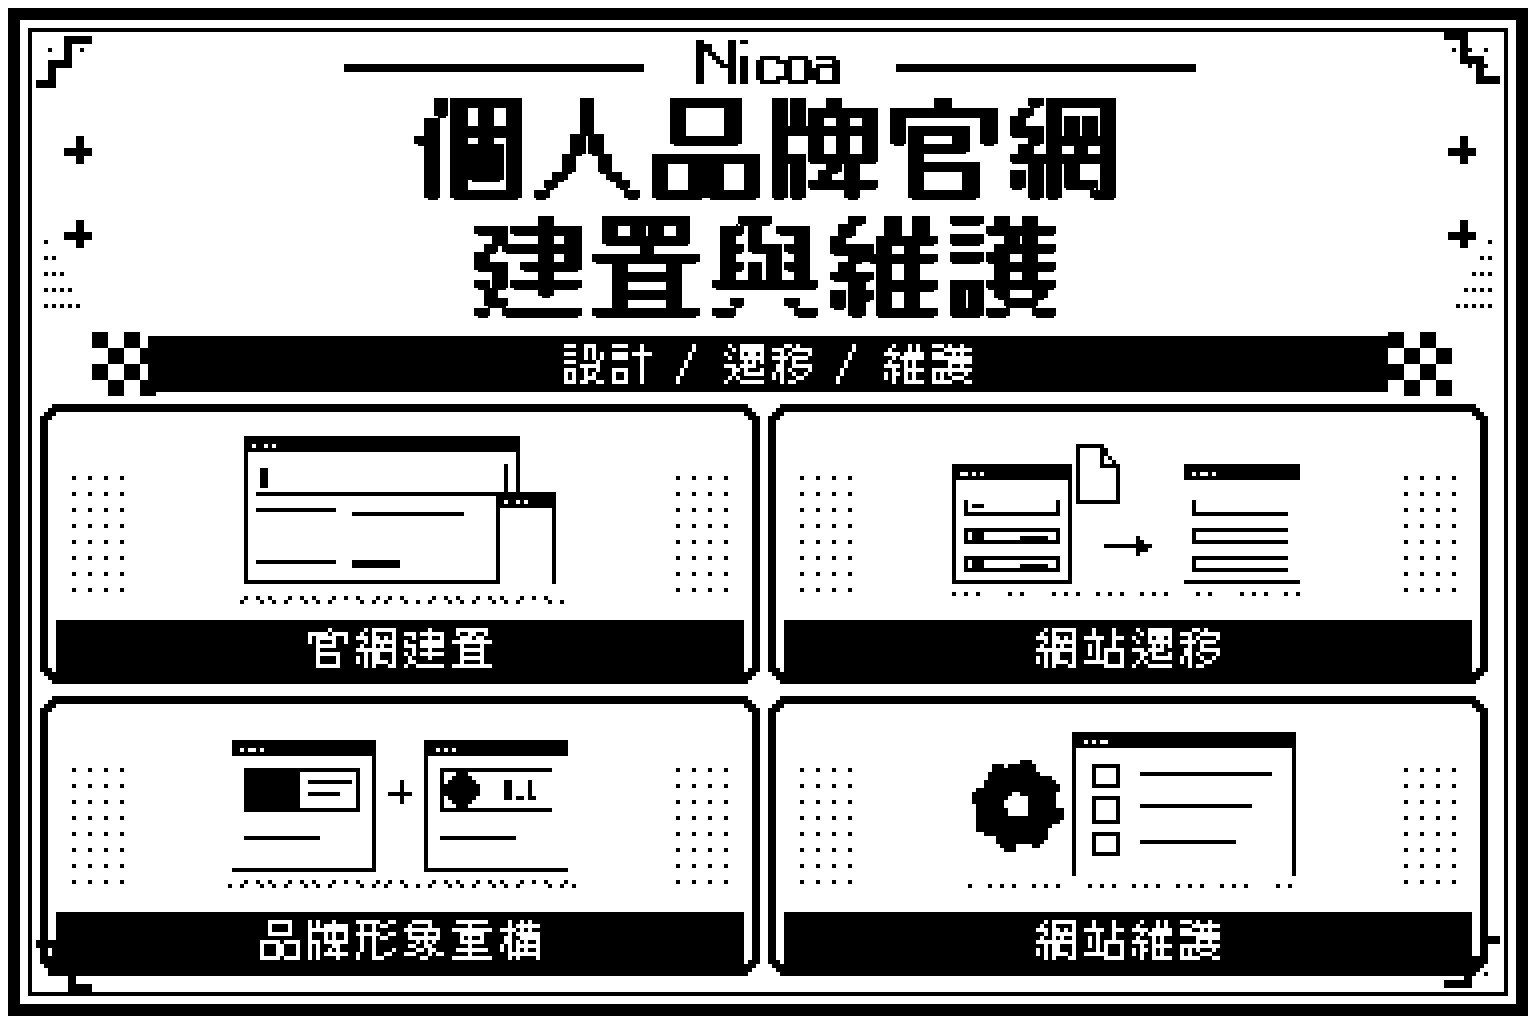
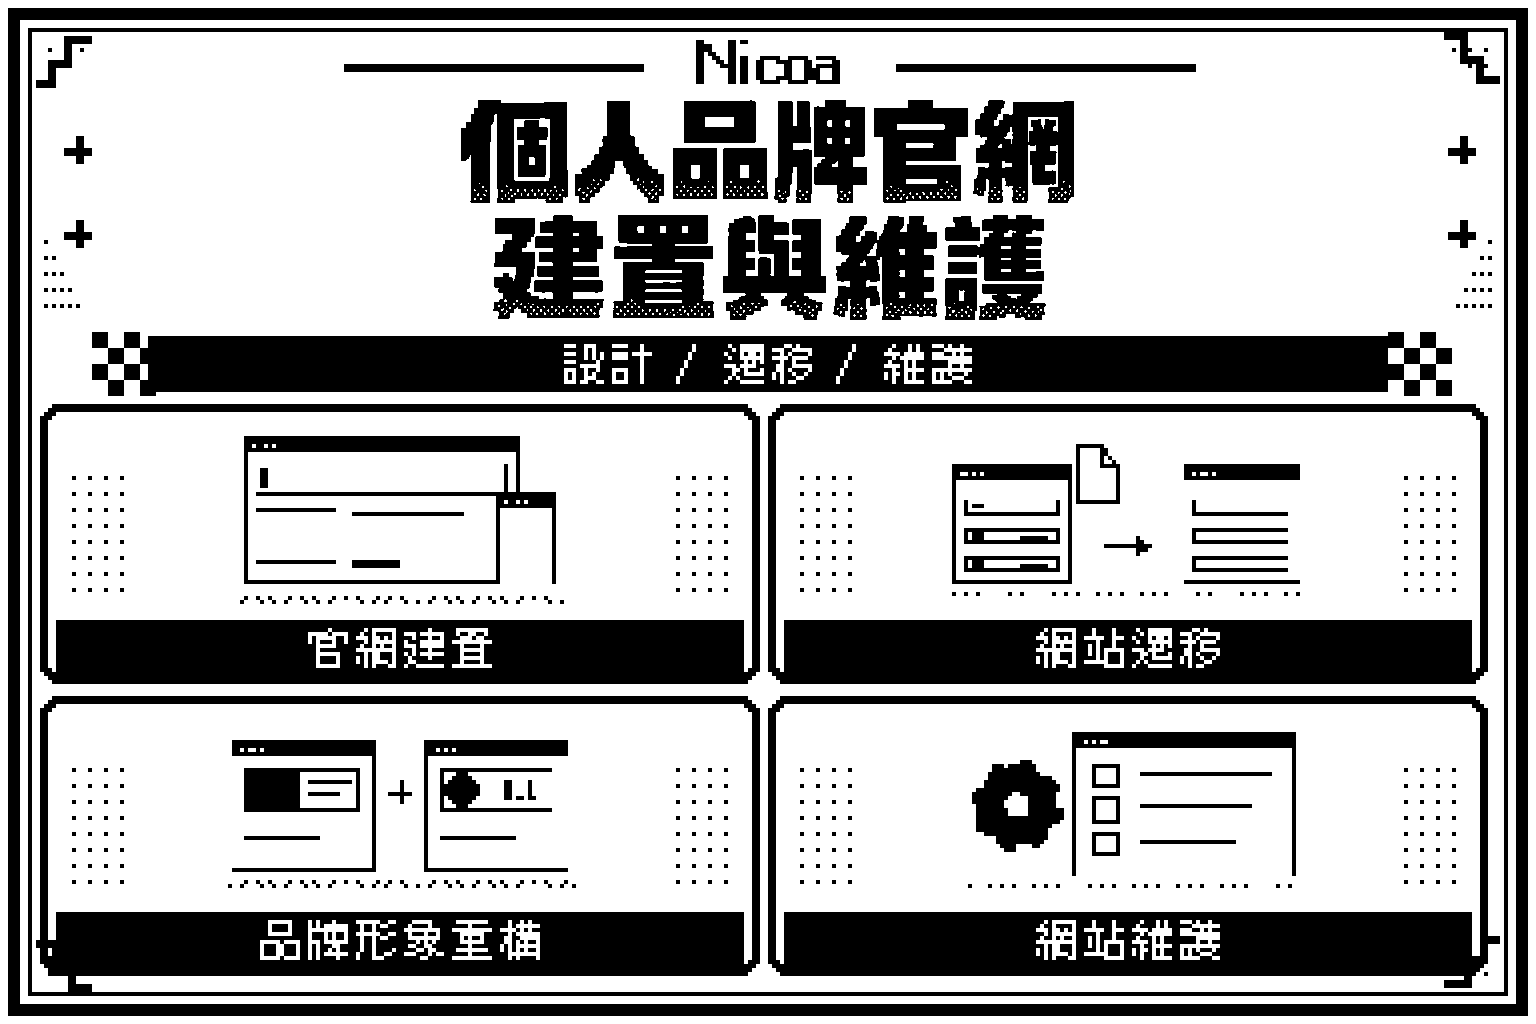
Use custom inked pixel lettering for both website posters

Changed region(s): [[0.25, 0.0938, 0.75, 0.3125]]

diff --git a/index.html b/index.html
@@ -282,7 +282,7 @@ height="0" width="0" style="display:none;visibility:hidden" title="Google Tag Ma
         </article>
         <article class="service-card website-service-plan pixel-reveal" id="website-service-plan" data-service-poster="website" data-window-title="個人品牌官網建置與維護" aria-labelledby="website-service-plan-title">
           <div data-view="original" class="poster-frame">
-            <img class="poster-base" src="./assets/service-website-zh.png?v=20261116-series" alt="個人品牌官網建置與維護四格像素海報，展示官網建置、網站遷移、品牌形象重構和網站維護" width="1536" height="1024" loading="lazy">
+            <img class="poster-base" src="./assets/service-website-zh.png?v=20261116-pixel-lettering" alt="個人品牌官網建置與維護四格像素海報，展示官網建置、網站遷移、品牌形象重構和網站維護" width="1536" height="1024" loading="lazy">
           </div>
           <div class="poster-utility">
             <button type="button" data-open-dialog="website-poster">放大原圖 ↗</button>
@@ -340,7 +340,7 @@ height="0" width="0" style="display:none;visibility:hidden" title="Google Tag Ma
   <dialog class="service-image-dialog" id="translation-poster" aria-labelledby="translation-poster-heading"><div class="dialog-header"><h2 id="translation-poster-heading">中英文翻譯</h2><button type="button" data-close-dialog="" aria-label="關閉服務圖片">×</button></div><picture class="home-responsive-image"><source type="image/webp" srcset="./assets/home-images/service-translation-zh-480.webp 480w, ./assets/home-images/service-translation-zh-768.webp 768w, ./assets/home-images/service-translation-zh-1152.webp 1152w, ./assets/home-images/service-translation-zh-1536.webp 1536w" sizes="min(calc(100vw - 48px), 1080px)"><img src="./assets/service-translation-zh.png" alt="中英文翻譯與繁體中文在地化：軟體介面、技術文件、文章翻譯、用詞與語氣" width="1536" height="1024" loading="lazy"></picture><a class="button button-dark" href="./assets/service-translation-zh.png" download="Nicoa-translation-zh.png">下載服務圖片 ↓</a></dialog>
   <dialog class="service-image-dialog" id="website-poster" aria-labelledby="website-poster-heading">
     <div class="dialog-header"><h2 id="website-poster-heading">個人品牌官網建置與維護</h2><button type="button" data-close-dialog aria-label="關閉服務圖片">×</button></div>
-    <img class="poster-base" src="./assets/service-website-zh.png?v=20261116-series" alt="個人品牌官網建置與維護四格像素海報，展示官網建置、網站遷移、品牌形象重構和網站維護" width="1536" height="1024" loading="lazy">
+    <img class="poster-base" src="./assets/service-website-zh.png?v=20261116-pixel-lettering" alt="個人品牌官網建置與維護四格像素海報，展示官網建置、網站遷移、品牌形象重構和網站維護" width="1536" height="1024" loading="lazy">
   </dialog>
   <dialog class="service-image-dialog" id="office-poster" aria-labelledby="office-poster-heading"><div class="dialog-header"><h2 id="office-poster-heading">文書自動化與資料整理</h2><button type="button" data-close-dialog="" aria-label="關閉服務圖片">×</button></div><picture class="home-responsive-image"><source type="image/webp" srcset="./assets/home-images/service-office-zh-480.webp 480w, ./assets/home-images/service-office-zh-768.webp 768w, ./assets/home-images/service-office-zh-1152.webp 1152w, ./assets/home-images/service-office-zh-1536.webp 1536w" sizes="min(calc(100vw - 48px), 1080px)"><img src="./assets/service-office-zh.png" alt="文書自動化腳本製作：Word、Excel、OCR、表格轉換、公式計算、圖片轉文字與批次處理" width="1536" height="1024" loading="lazy"></picture><a class="button button-dark" href="./assets/service-office-zh.png" download="Nicoa-office-zh.png">下載服務圖片 ↓</a></dialog>
 <aside aria-label="動畫控制" class="site-motion-tools"><a href="#services">服務動畫 ↑</a><button id="motion-toggle" type="button" aria-pressed="false">暫停動畫</button><button id="replay" type="button">重播進場 ↺</button></aside></body>

diff --git a/en/index.html b/en/index.html
@@ -271,7 +271,7 @@ height="0" width="0" style="display:none;visibility:hidden" title="Google Tag Ma
         </article>
         <article class="service-card website-service-plan pixel-reveal" id="website-service-plan" data-service-poster="website" data-window-title="Personal brand website design &amp; maintenance" aria-labelledby="website-service-plan-title">
           <div data-view="original" class="poster-frame">
-            <img class="poster-base" src="../assets/service-website-en.png?v=20261116-series" alt="Four-panel pixel poster showing website design, migration, brand redesign and maintenance" width="1536" height="1024" loading="lazy">
+            <img class="poster-base" src="../assets/service-website-en.png?v=20261116-pixel-lettering" alt="Four-panel pixel poster showing website design, migration, brand redesign and maintenance" width="1536" height="1024" loading="lazy">
           </div>
           <div class="poster-utility">
             <button type="button" data-open-dialog="website-poster">Enlarge original ↗</button>
@@ -323,7 +323,7 @@ height="0" width="0" style="display:none;visibility:hidden" title="Google Tag Ma
   <dialog class="service-image-dialog" id="translation-poster" aria-labelledby="translation-poster-heading"><div class="dialog-header"><h2 id="translation-poster-heading">English–Chinese translation</h2><button type="button" data-close-dialog="" aria-label="Close service image">×</button></div><picture class="home-responsive-image"><source type="image/webp" srcset="../assets/home-images/service-translation-en-480.webp 480w, ../assets/home-images/service-translation-en-768.webp 768w, ../assets/home-images/service-translation-en-1152.webp 1152w, ../assets/home-images/service-translation-en-1536.webp 1536w" sizes="min(calc(100vw - 48px), 1080px)"><img src="../assets/service-translation-en.png" alt="English–Chinese translation: software UI, technical documents, articles and Traditional Chinese localization" width="1536" height="1024" loading="lazy"></picture><a class="button button-dark" href="../assets/service-translation-en.png" download="Nicoa-translation-en.png">Download service image ↓</a></dialog>
   <dialog class="service-image-dialog" id="website-poster" aria-labelledby="website-poster-heading">
     <div class="dialog-header"><h2 id="website-poster-heading">Personal brand website design &amp; maintenance</h2><button type="button" data-close-dialog aria-label="Close service image">×</button></div>
-    <img class="poster-base" src="../assets/service-website-en.png?v=20261116-series" alt="Four-panel pixel poster showing website design, migration, brand redesign and maintenance" width="1536" height="1024" loading="lazy">
+    <img class="poster-base" src="../assets/service-website-en.png?v=20261116-pixel-lettering" alt="Four-panel pixel poster showing website design, migration, brand redesign and maintenance" width="1536" height="1024" loading="lazy">
   </dialog>
   <dialog class="service-image-dialog" id="office-poster" aria-labelledby="office-poster-heading"><div class="dialog-header"><h2 id="office-poster-heading">Office automation &amp; documents</h2><button type="button" data-close-dialog="" aria-label="Close service image">×</button></div><picture class="home-responsive-image"><source type="image/webp" srcset="../assets/home-images/service-office-en-480.webp 480w, ../assets/home-images/service-office-en-768.webp 768w, ../assets/home-images/service-office-en-1152.webp 1152w, ../assets/home-images/service-office-en-1536.webp 1536w" sizes="min(calc(100vw - 48px), 1080px)"><img src="../assets/service-office-en.png" alt="Office automation scripts: Word and Excel table conversion, formulas, image-to-text OCR and batch processing" width="1536" height="1024" loading="lazy"></picture><a class="button button-dark" href="../assets/service-office-en.png" download="Nicoa-office-en.png">Download service image ↓</a></dialog>
 <aside aria-label="Animation controls" class="site-motion-tools"><a href="#services">Services ↑</a><button id="motion-toggle" type="button" aria-pressed="false">Pause animations</button><button id="replay" type="button">Replay intro ↺</button></aside></body>

diff --git a/build-service-animations.py b/build-service-animations.py
@@ -9,6 +9,7 @@ from PIL import Image, ImageDraw, ImageFont
 sys.stdout.reconfigure(encoding="utf-8",line_buffering=True)
 ROOT=Path(__file__).resolve().parent
 OUT=ROOT/"assets"
+WEBSITE_LETTERING=ROOT/"service-images"/"website-lettering-source.png"
 W,H,N=240,122,24
 FONT={
  "A":"0e 11 11 1f 11 11 11","B":"1e 11 11 1e 11 11 1e","C":"0f 10 10 10 10 10 0f",
@@ -338,7 +339,7 @@ def website_maintenance(d, f):
  website_ground(d,15,110,214)
 
 
-def website_poster(frames, labels, font_path, language):
+def website_poster(frames, labels, font_path, language, lettering, title_rect):
  # Work in whole pixels. The layout and sprite rectangles share a 4× scale.
  poster=Image.new("1",(384,256),1)
  draw=ImageDraw.Draw(poster)
@@ -351,7 +352,7 @@ def website_poster(frames, labels, font_path, language):
    for col in range(3-row):
     draw.point((x+dx*(3+4*col),y+dy*(3+4*row)),fill=0)
 
- title, subtitle, panels=labels
+ subtitle, panels=labels
  label_font=ImageFont.truetype(font_path,11)
  brand_font=ImageFont.truetype(font_path,15)
  draw.text((192,16),"Nicoa",font=brand_font,fill=0,anchor="mm")
@@ -386,34 +387,23 @@ def website_poster(frames, labels, font_path, language):
      draw.point((x0+col*4 if x0==x+7 else x0-col*4,y+18+row*4),fill=0)
   poster.paste(scene[0].resize((94,48),Image.Resampling.NEAREST),(x+42,y+4))
 
- if language=="en":
-  # Reuse the same block-letter alphabet as the pixel animation previews.
-  for line,y,scale,advance in zip(title,(25,57),(4,3),(24,16)):
-   left=(384-((len(line)-1)*advance+5*scale))//2
-   for i,char in enumerate(line):
-    text(draw,left+i*advance,y,char,scale=scale)
-    text(draw,left+i*advance,y+1,char,scale=scale)
-    if scale==4:
-     text(draw,left+i*advance+1,y,char,scale=scale)
-  return poster.resize((1536,1024),Image.Resampling.NEAREST)
-
- poster=poster.resize((768,512),Image.Resampling.NEAREST)
- title_font=ImageFont.truetype(font_path,66)
- title_lines=[]
- for line in title:
-  left,top,right,bottom=title_font.getbbox(line)
-  artwork=Image.new("1",(right-left+5,bottom-top+2),1)
-  title_draw=ImageDraw.Draw(artwork)
-  for offset in (0,2,4):
-   title_draw.text((offset-left,-top),line,font=title_font,fill=0)
-  title_draw.text((2-left,1-top),line,font=title_font,fill=0)
-  title_lines.append(artwork)
- scale=min(1,624/max(line.width for line in title_lines),52/max(line.height for line in title_lines))
- for line,center in zip(title_lines,(75,134)):
-  width,height=round(line.width*scale),round(line.height*scale)
-  line_image=line.resize((width,height),Image.Resampling.NEAREST)
-  poster.paste(line_image,((768-width)//2,center-height//2))
- return poster.resize((1536,1024),Image.Resampling.NEAREST)
+ poster=poster.resize((1536,1024),Image.Resampling.NEAREST)
+ # Separate the two lettered titles, harden the ink, and fit without stretching.
+ with Image.open(lettering) as sheet:
+  middle=sheet.height//2
+  region=(0,0,sheet.width,middle) if language=="zh" else (0,middle,sheet.width,sheet.height)
+  artwork=sheet.crop(region).convert("L")
+ ink=artwork.point(lambda value:255 if value<128 else 0)
+ bounds=ink.getbbox()
+ if not bounds:
+  raise ValueError(f"No lettering found for {language}")
+ artwork=artwork.crop(bounds)
+ x,y,w,h=title_rect
+ scale=min((w-12)/artwork.width,(h-8)/artwork.height)
+ width,height=round(artwork.width*scale),round(artwork.height*scale)
+ title=artwork.resize((width,height),Image.Resampling.LANCZOS).point(lambda value:0 if value<150 else 255,"1")
+ poster.paste(title,(x+(w-width)//2,y+(h-height)//2))
+ return poster
 
 
 SERVICES=[
@@ -448,6 +438,7 @@ manifest=OUT/"service-animation-manifest.json"
 if not args.website_font.is_file():
  parser.error("--website-font must point to a font that supports Traditional Chinese.")
 print(f"[0/5] Input font: {args.website_font.resolve()}")
+print(f"[0/5] Input lettering: {WEBSITE_LETTERING.resolve()}")
 if args.website_only:
  print(f"[0/5] Input existing manifest: {manifest.resolve()}")
 for lang in ("zh","en"):
@@ -485,10 +476,10 @@ for service in selected:
   print(f'[2/5] {scene_count}/{total_scenes} ({scene_count*100//total_scenes}%) {service["id"]}/{scene["id"]}: 24 two-color frames.')
  if service["id"]=="website":
   for lang,labels in {
-   "zh": (("個人品牌官網","建置與維護"),"設計 / 遷移 / 維護",("官網建置","網站遷移","品牌形象重構","網站維護")),
-   "en": (("BRAND WEBSITE","DESIGN & MAINTENANCE"),"DESIGN / MIGRATE / MAINTAIN",("Website design","Website migration","Brand redesign","Maintenance")),
+   "zh": ("設計 / 遷移 / 維護",("官網建置","網站遷移","品牌形象重構","網站維護")),
+   "en": ("DESIGN / MIGRATE / MAINTAIN",("Website design","Website migration","Brand redesign","Maintenance")),
   }.items():
-   website_poster(all_frames,labels,args.website_font,lang).save(OUT/f"service-website-{lang}.png")
+   website_poster(all_frames,labels,args.website_font,lang,WEBSITE_LETTERING,service["titleRect"]).save(OUT/f"service-website-{lang}.png")
  previews=[]
  for f in range(N):
   image=Image.new("1",(496,292),1);draw=ImageDraw.Draw(image)

diff --git a/README.md b/README.md
@@ -6,7 +6,7 @@
 
 ### 重製官網服務海報與四格動畫
 
-執行 `python build-service-animations.py --website-only`，再執行 `node sync-poster-animation-data.mjs`。前者輸出雙語黑白海報、四組影格 PNG、GIF 和預覽 PNG，驗證每格有 24 個黑白影格，再更新動畫清單。官網海報預設使用專案內的俐方體 11 號 WOFF2，以整數像素繪製階梯邊框、Nicoa 頁首、雙行像素粗體標題與 2×2 動畫版位。繁中主標的兩行以相同倍率等比例縮放，英文使用影格產生器的 5×7 字母，四格與標題的座標存於動畫清單。執行環境需有支援 WOFF2 的 FreeType，也可用 `--website-font` 指定支援繁體中文的字型路徑。兩個指令都會先列出檔案絕對路徑與進度。
+執行 `python build-service-animations.py --website-only`，再執行 `node sync-poster-animation-data.mjs`。前者輸出雙語黑白海報、四組影格 PNG、GIF 和預覽 PNG，驗證每格有 24 個黑白影格，再更新動畫清單。官網海報預設使用專案內的俐方體 11 號 WOFF2，以整數像素繪製階梯邊框、Nicoa 頁首與 2×2 動畫版位。主標來自 ImageGen 內建工具產出的雙語字樣稿 `service-images/website-lettering-source.png`。產生程式分離兩個語言區，裁切墨跡、等比例縮放、轉為黑白並置入標題框。四格與標題座標存於動畫清單。執行環境需有支援 WOFF2 的 FreeType，也可用 `--website-font` 指定支援繁體中文的字型路徑。兩個指令都會先列出檔案絕對路徑與進度。
 
 ## 個人品牌官網服務方案下載
 
